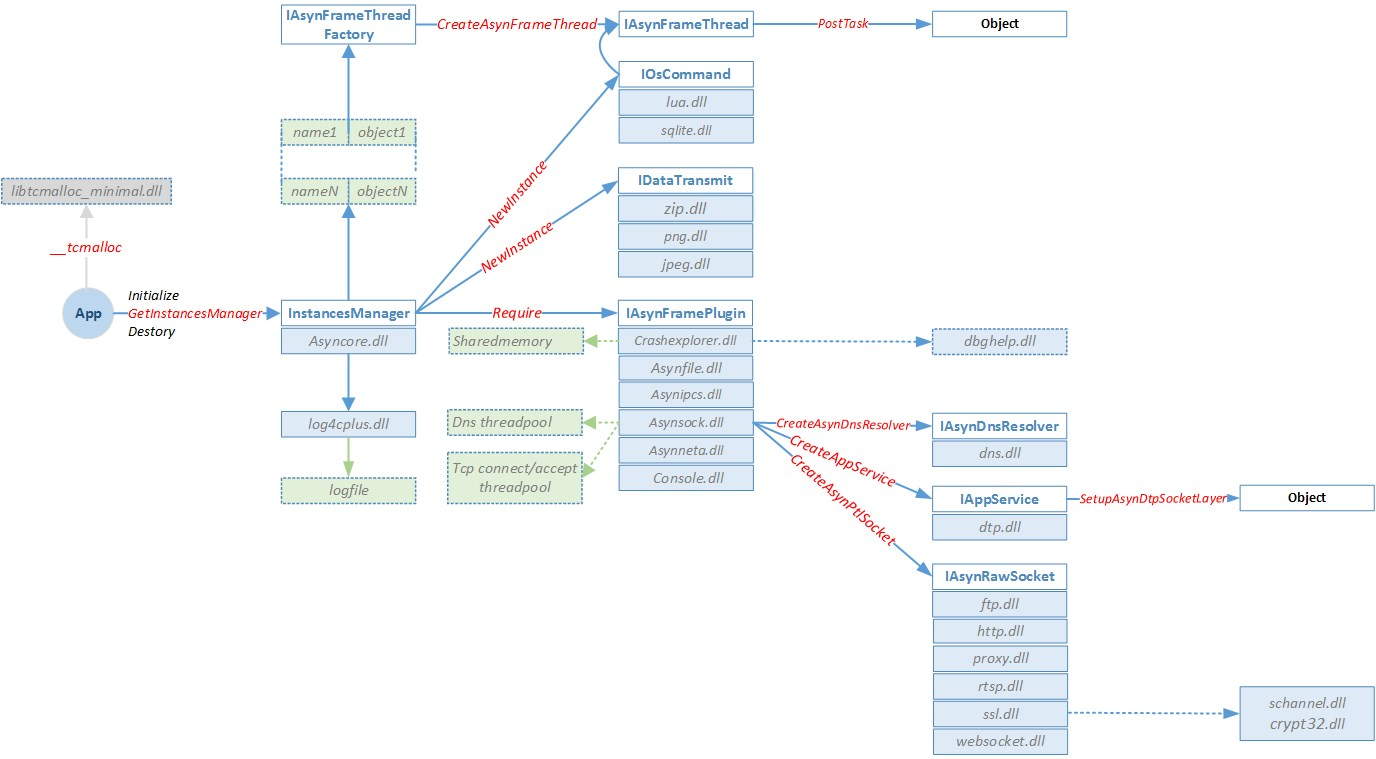
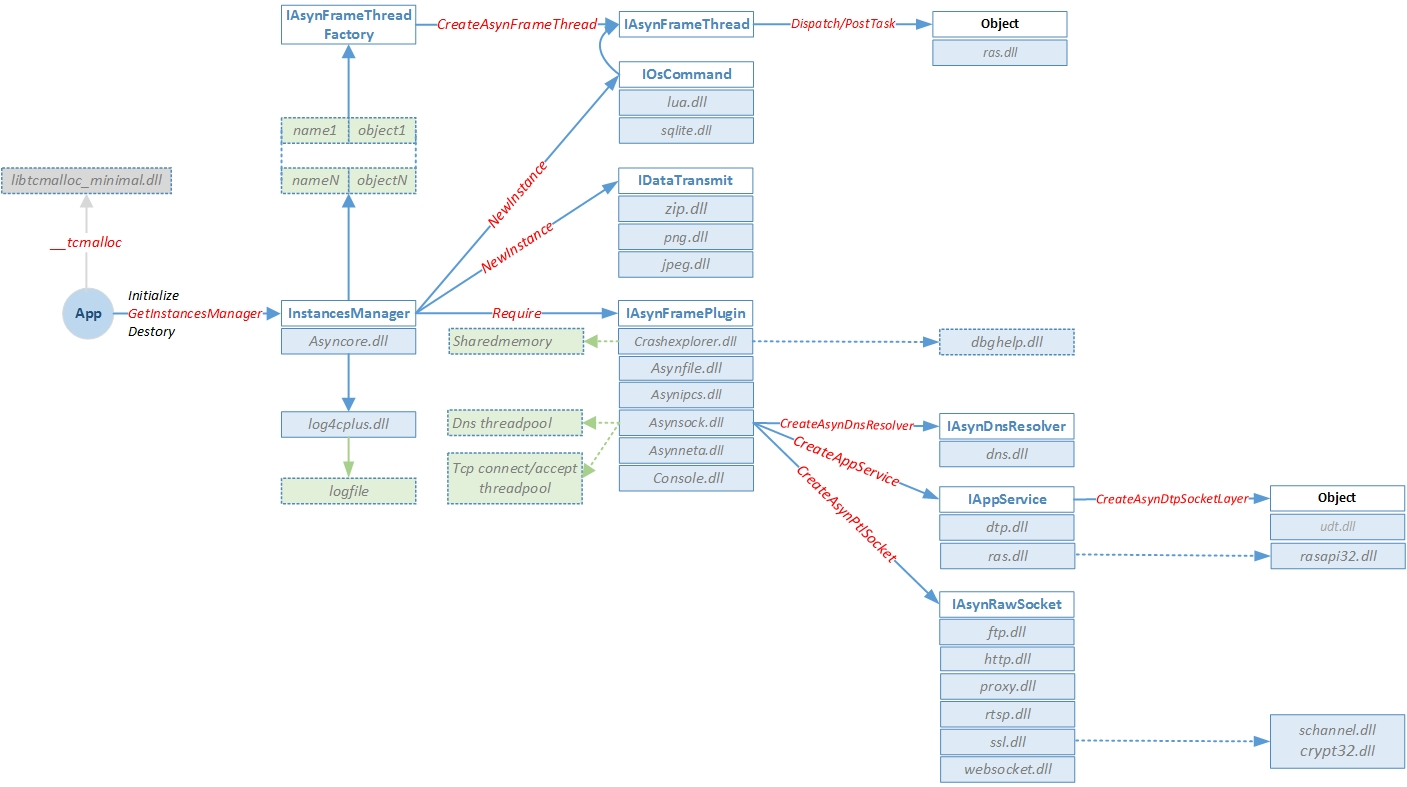
1.4.0-20230222

diff --git a/index_EN.md b/index_EN.md
@@ -1,4 +1,4 @@
-## Asynframe framework v1.3.2
+## Asynframe framework v1.4.0
 > https://github.com/netsecsp/asynframe  
 
 # Background [中文](/index.md)  
@@ -56,22 +56,24 @@ Asynframe framework solves the six problems mentioned above in the process of so
 |ssl|plugin[asynsock]|ssl/tls encryption/decryption<br>1.implement p12 certificate|\support\testnetclient_ssl<br>\support\testnetserver_ssl|
 |proxy|plugin[asynsock]|client proxy<br>1.implement http/https proxy：Basic/Digest authorize<br>2.implement ftp/ftps proxy<br>3.implement socks4.0/4.a/5.0 proxy|\support\testnetclient_proxy<br>\support\testnetserver_socks|
 |websocket|plugin[asynsock]|websocket protocol<br>1.implement data frame slice<br>2.priority transmission control frame|\support\testnetclient_websocket<br>\support\testnetserver_websocket|
+|Dtp|plugin[asyncock]|port reuse framework to implement tcp/udp|support testnetserver_ dtp-tcp.port<br>\support\testnetserver_ dtp-udp.port|
 |zip|plugin|Implementation of IDataTransmit interface based on zlib-1.2.11.0<br>1.implement zip files<br>2.deflate/inflate data|\support\testframe|
 |lua|plugin|Implementation of IOsCommand interface based on lua-5.4.4<br>1.implement threads and logs|\support\testframe<br>\support\testlua\testapi|ß
 |sqlite|plugin|Implementation of IOsCommand interface based on sqlite-3.3.20|\support\testframe|
 
 # Change log
+> 2023/02/22 Release asynframe framework v1.4.0  
+1. Publish plugin: dtp/ras  
+2. Adjust interface definition  
+3. Fix known problems  
 > 2023/02/02 Release asynframe framework v1.3.2  
-1. Crash explorer implements cross process output of stack information and dmp file when crashing  
-2. SSL fixes compatibility issues  
-3. Support plug-in upgrade  
-> 2022/06/08 Release asynframe framework v1.2  
-> 2022/05/26 Release asynframe framework v1.1  
-> 2022/05/05 Release asynframe framework v1.0  
+> 2022/06/08 Release asynframe framework v1.2.0  
+> 2022/05/26 Release asynframe framework v1.1.0  
+> 2022/05/05 Release asynframe framework v1.0.0  
 
 # Build
-> sdk_v1.3.2-Msvc2019_20230202.zip is compiled through Microsoft Visual Studio 2019  
-> sdk_v1.3.2-Msvc2013_20230202.zip is compiled through Microsoft Visual Studio 2013  
+> sdk_v1.4.0-Msvc2019_20230222.zip is compiled through Microsoft Visual Studio 2019  
+> sdk_v1.4.0-Msvc2013_20230222.zip is compiled through Microsoft Visual Studio 2013  
 
 1. The include / lib path corresponding to asynframe needs to be set in the project  
 2. Select and link the corresponding asynsdk of asynframe according to the runtime of the asynsdk_mini-[MD/MDd/MT/MTd].lib  
@@ -91,7 +93,7 @@ int main(int argc, const char *argv[])
     CComPtr<IAsynFrameThread> spAsynFrameThread; //Create thread
     lpInstancesManager->NewInstance(0,0,IID_IAsynFrameThread, (void**)&spAsynFrameThread);
 
-    lpInstancesManager->Require(STRING_from_string(IN_AsynNetwork), 0); //Load network module
+    lpInstancesManager->Require(STRING_from_string(IN_AsynNetwork)); //Load network module
 
     CComPtr<IAsynNetwork    > spAsynNetwork;
     lpInstancesManager->GetInstance(STRING_from_string(IN_AsynNetwork), IID_IAsynNetwork, (void **)&spAsynNetwork);
@@ -123,6 +125,7 @@ int main(int argc, const char *argv[])
   [IProxy](/doc/IProxy.txt)  
   [ISsl](/doc/ISsl.txt)  
   [IVmHost](/doc/IVmHost.txt)  
+  [IDtp](/doc/IDtp.txt)  
 
 - [Plugins](/doc/externapi.md)   
   <u>base modules</u>  
